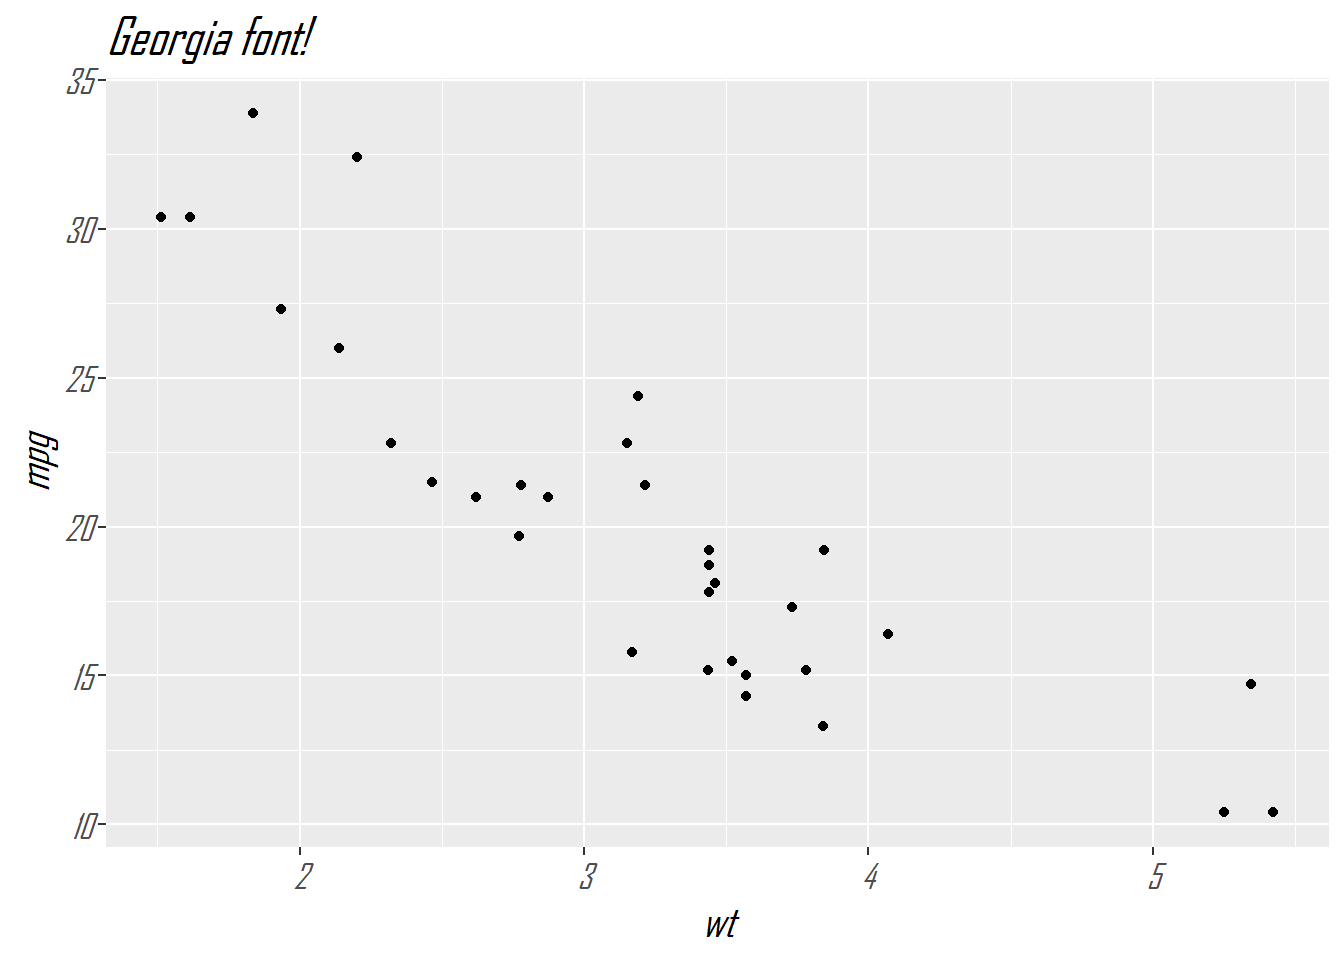
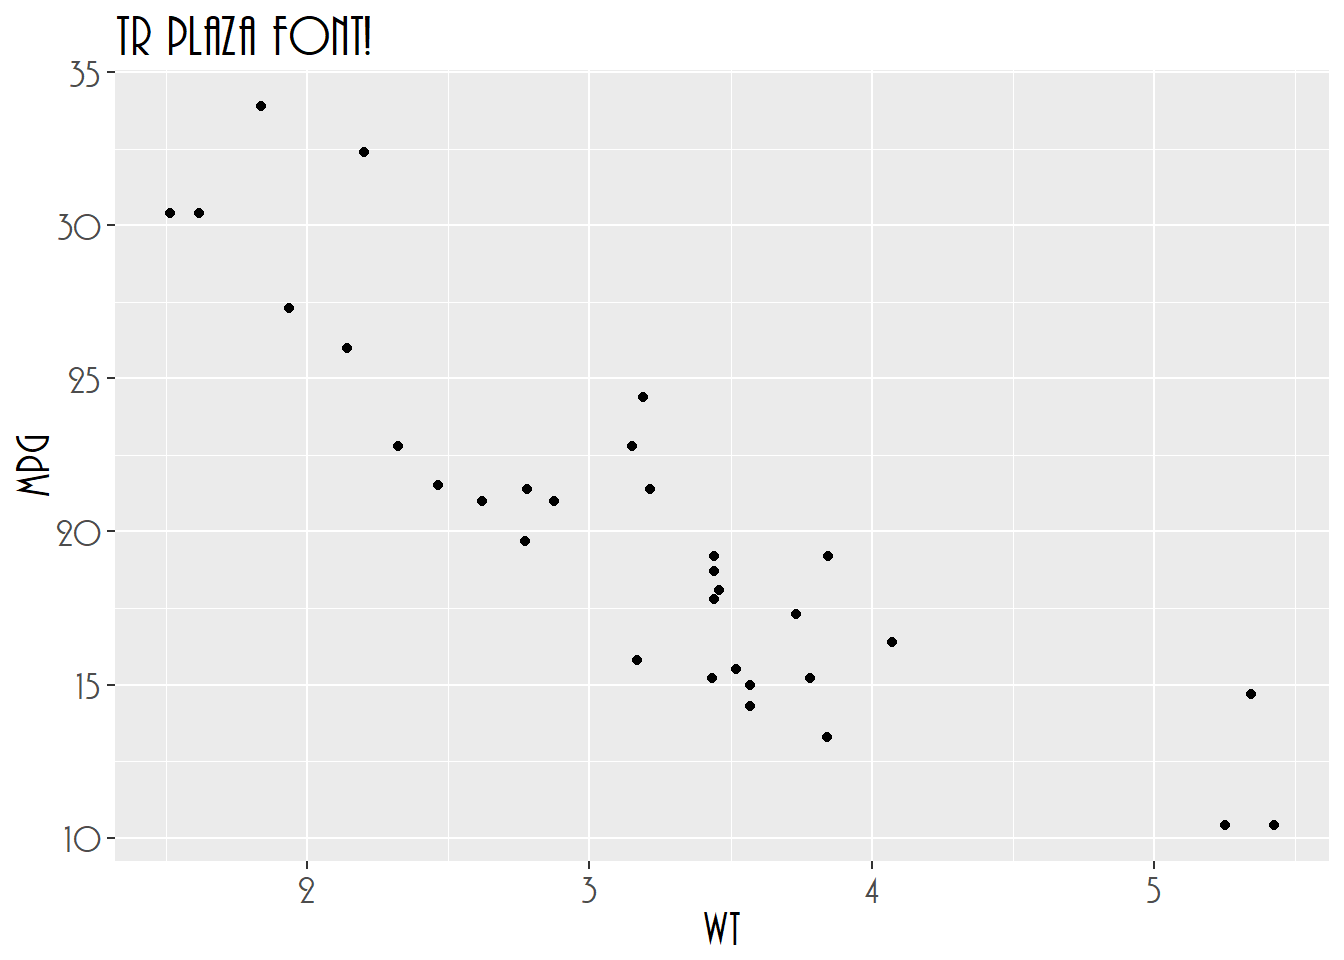
Featured image.

diff --git a/content/post/2022-05-02-using-custom-fonts-in-r/index.html b/content/post/2022-05-02-using-custom-fonts-in-r/index.html
@@ -7,11 +7,9 @@ categories:
   - Tutorial
 tags: []
 description: 'How to install a font and use it in ggplot.'
-images:
-  alt: 'Georgia'
-  src: 'featured.png'
-  stretch: 'cover'
-removeBlur: no
+featured: 'featured.png'
+featuredpath: '../../post/2022-05-02-using-custom-fonts-in-r'
+featuredstretch: 'cover'
 ---
 
 <script src="{{< blogdown/postref >}}index_files/header-attrs/header-attrs.js"></script>
@@ -46,9 +44,10 @@ library(extrafont)</code></pre>
 # message that it is &quot;Registering fonts with R.&quot;
 # loadfonts(device=&quot;win&quot;)
 
-ggplot(mtcars, aes(x=wt, y=mpg)) + geom_point() +
-  ggtitle(&quot;Georgia font!&quot;) +
-  theme(text = element_text(size = 16, family=&quot;Agency FB&quot;, face=&quot;italic&quot;))</code></pre>
+ggplot(mtcars, aes(x=wt, y=mpg)) + 
+  geom_point() +
+  ggtitle(&quot;TR Plaza font!&quot;) +
+  theme(text = element_text(size = 16, family=&quot;TR Plaza&quot;))</code></pre>
 <p><img src="{{< blogdown/postref >}}index_files/figure-html/unnamed-chunk-3-1.png" width="672" /></p>
 <p>The key is setting the <code>family</code> argument of the <code>element_text()</code> function. How do you know what string to use? The name that appears in your MS Word font selection seems to always work. You can see the registered fonts with <code>extrafont::fonts()</code>, or even more detail with <code>extrafont::fonttable()</code>.</p>
 <pre class="r"><code>fonts() %&gt;% .[1:6] # just the first 6
